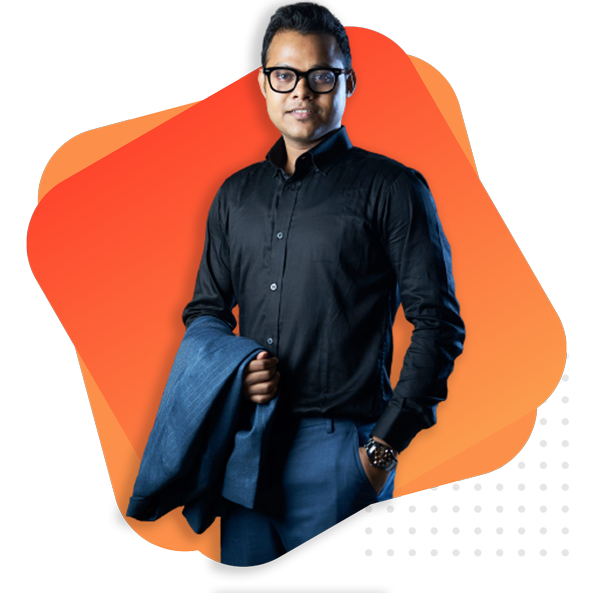
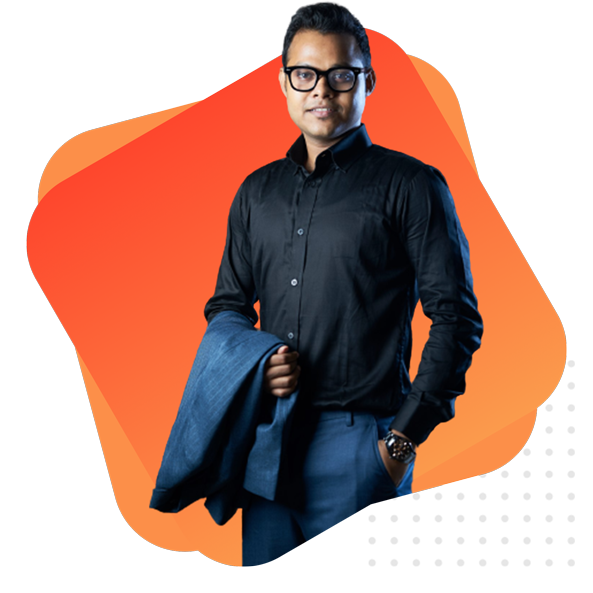
update

Changed region(s): [[0.1821, 0.0, 0.8196, 0.9713], [0.7285, 0.7589, 0.9713, 0.941], [0.9106, 0.6071, 0.9713, 0.7285]]

diff --git a/style/style.css b/style/style.css
@@ -3,10 +3,15 @@
    margin: 0;
    padding: 0;
    color: #575757;
+
 }
 h1{
     font-weight: 600;
 }
+p{
+    line-height: 25px;
+}
+
 
 
 /* ----------------------  cover-top ----------------------------- */
@@ -35,10 +40,7 @@ h1{
     font-weight: 600;
     font-size: 50px;
 }
-.text h2{
-    font-weight: 400;
-    font-size: 40px;
-}
+
 .text hr{
     border: 2px solid rgb(253,94,53);
     background-color: rgb(253,94,53);
@@ -56,7 +58,7 @@ h1{
     text-decoration: none;
     color: white;
     padding: 10px 15px;
-    background-image: linear-gradient(rgba(255, 30, 30, 1), rgba(251, 162, 79, 1));
+    background : linear-gradient(45deg , #FBA24F, #FF1E1E);
 }
 
 .menu{
@@ -69,9 +71,7 @@ h1{
 }
 .menu  li{
     margin-top: 100px;
-    text-decoration: none;
-    color: rgb(253,94,53);
-    font-size: 20px;
+    font-size: 15px;
     padding-right: 15px;
     display: inline;
 }
@@ -92,6 +92,7 @@ h1{
 }
 
 /* ----------------------  about-me ----------------------------- */
+
 .about-me{
     display: none;
     text-align: justify;
@@ -105,10 +106,9 @@ h1{
 }
 .Text-about-me{
 
-    margin-top: 200px;
+    margin-top: 150px;
     width: 40%;
     padding: 0 auto;
-    align-items: center;
     
 }
 .Text-about-me h1 {
@@ -125,15 +125,16 @@ h1{
     
 }
 .imgae-about-me img{
-    height: 700px;
+    height: 600px;
     margin-left: 50px;
+    margin-top: 100px;
 }
 
 .about-me hr{
     border: 2px solid rgb(253,94,53);
     background-color: rgb(253,94,53);
     width: 200px;
-    margin-bottom: 50px;
+    margin-bottom: 40px;
    
 }
 .about-button{
@@ -169,7 +170,7 @@ h1{
 .food-cart-1 img{
     border-radius: 10px;
 }
-.food-cart-1 h3{
+.food-cart-1 h2{
     margin: 50px 0 20px;
     color: rgb(253,94,53);
 
@@ -183,7 +184,7 @@ h1{
 .social-media-count{
     display: flex;
     box-shadow: 5px 10px 25px #888888;
-margin: 100px 120px;
+    margin: 100px 140px;
     border-radius: 20px;
     justify-content: space-around;
     padding: 50px;
@@ -192,7 +193,7 @@ margin: 100px 120px;
 
 .count h1{
     font-weight: 800;
-    font-size: 40px;
+    font-size: 48px;
     color: rgba(24, 25, 31, 1);
 }
 .count p{

diff --git a/index.html b/index.html
@@ -25,9 +25,9 @@
                 </ul>
             </div>
             <div class="text">
-                <h3>Hi i am</h3>
+                <h2>Hi i am</h2>
                 <h1 class="orange">Yeasin Rahaman.</span></h1>
-                <h3>I am a <span class="orange text-chef">Chef.</span></h3>
+                <h2>I am a <span class="orange text-chef">Chef.</span></h2>
                 <hr>
                 <p>Chef Yeasin Rahaman of imchef.com, is re-inventing the art of cooking. The food is a way to tell his
                     story and it changes with each new chapter of his life.</p>
@@ -88,19 +88,19 @@
 
             <div class="food-cart-1">
                 <img src="images/3.jpg" alt="">
-                <h3>Chicken curry</h3>
+                <h2>Chicken curry</h2>
                 <p>Fancy a healthy version of your favourite Friday night chicken curry? The chicken can be marinaded
                     the day before so you can get ahead on your prep.</p>
             </div>
             <div class="food-cart-1">
                 <img src="images/2.jpg" alt="">
-                <h3>Tomato pasta</h3>
+                <h2>Tomato pasta</h2>
                 <p>Upgrade cheesy tomato pasta with gnocchi, chorizo and mozzarella for a comforting bake that makes an
                     excellent midweek meal.</p>
             </div>
             <div class="food-cart-1">
                 <img src="images/3.jpg" alt="">
-                <h3>Gooey mozzarella</h3>
+                <h2>Gooey mozzarella</h2>
                 <p>Kids will love to help assemble this easiest ever pasta bake with streaky bacon, beef mince, a crème
                     fraîche sauce and gooey mozzarella</p>
             </div>
